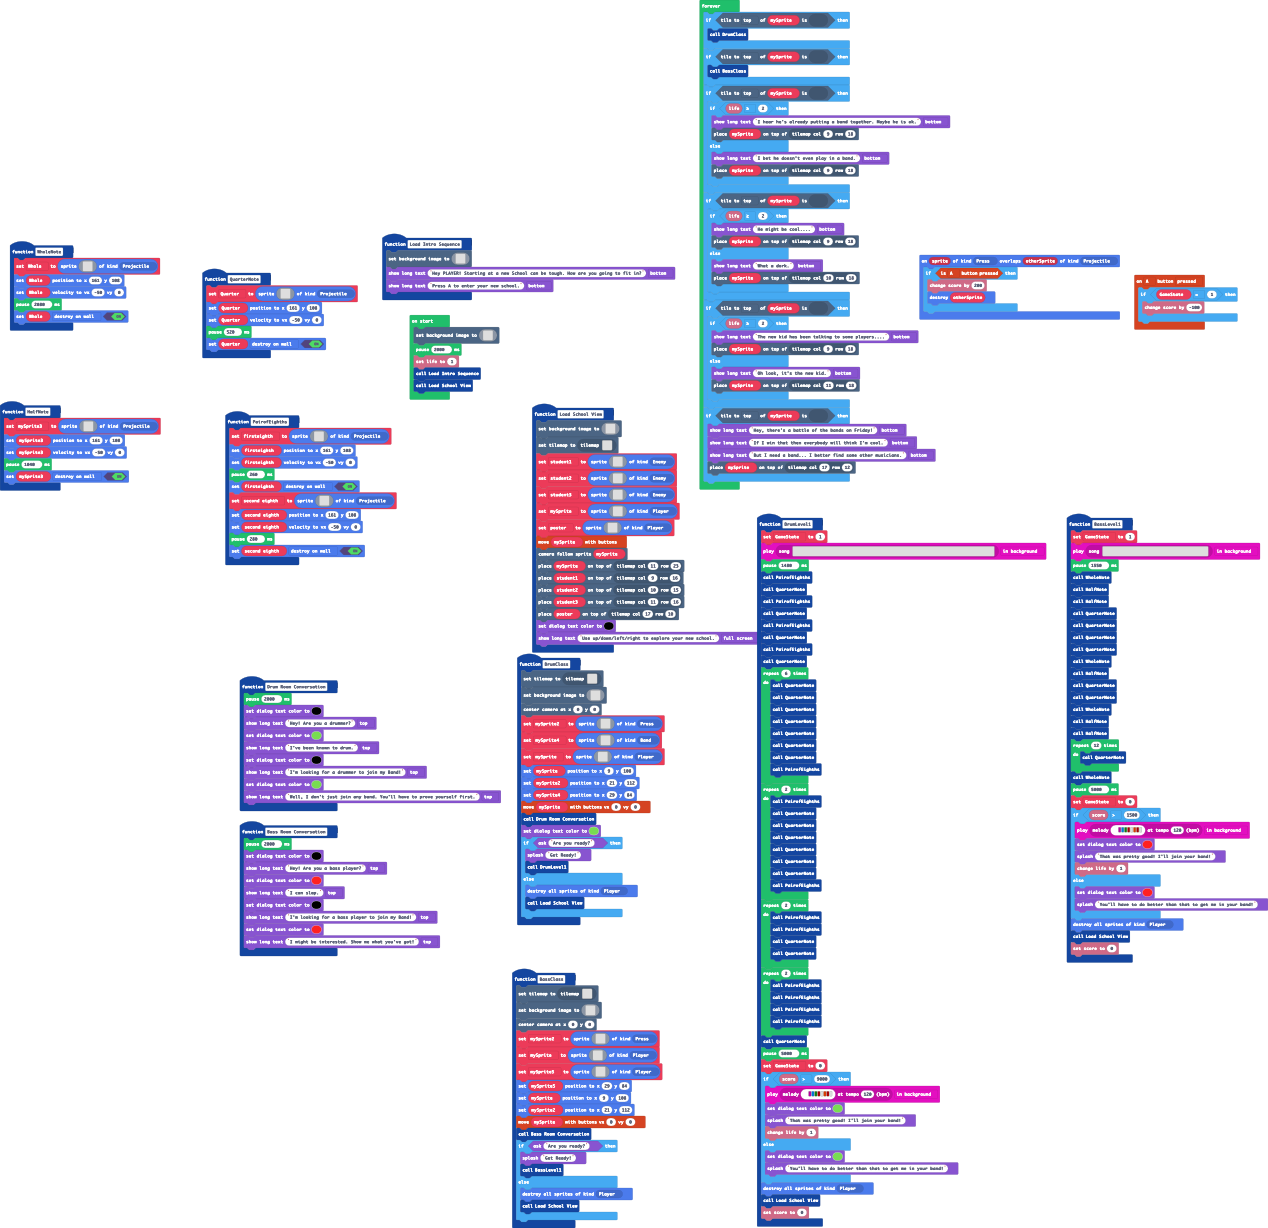
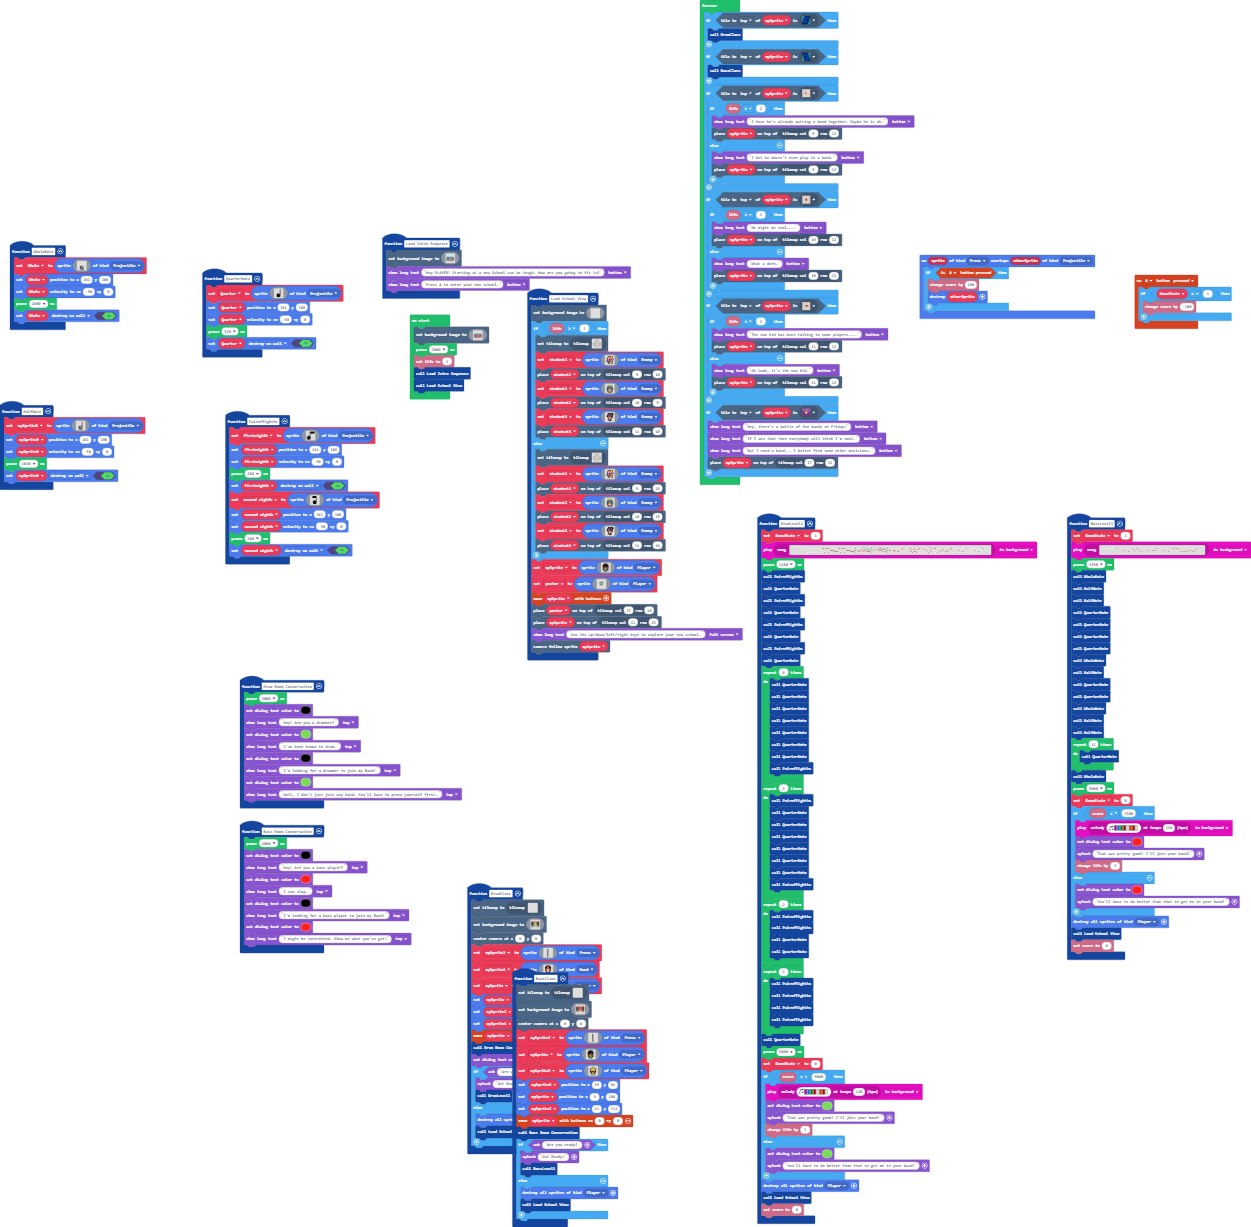
Update main.blocks, main.ts, tilemap.g.jres, tilemap.g.ts

diff --git a/tilemap.g.ts b/tilemap.g.ts
@@ -86,6 +86,166 @@ namespace myTiles {
 ........2......2........
 ........2......2........
 `, [myTiles.transparency16,sprites.dungeon.floorLight2,sprites.dungeon.greenOuterSouth0,sprites.dungeon.greenOuterWest1,sprites.dungeon.greenOuterEast0,sprites.dungeon.greenOuterNorth0,sprites.dungeon.greenOuterNorthWest,sprites.dungeon.greenInnerNorthWest,sprites.dungeon.greenInnerNorthEast,sprites.dungeon.greenInnerSouthEast,sprites.dungeon.greenInnerSouthWest,sprites.dungeon.greenOuterSouthEast,sprites.dungeon.greenOuterSouthWest,sprites.dungeon.greenOuterNorthEast,sprites.dungeon.greenOuterEast1,myTiles.tile2,myTiles.tile3,myTiles.tile4,myTiles.tile5,myTiles.tile6,myTiles.tile8], TileScale.Sixteen);
+            case "level4":
+            case "level4":return tiles.createTilemap(hex`1000100000000000000000000000000000000000000000000000000000000000000000000000000000000000000000000000000000000000000000000000000000000000000000000000000000000000000000000000000000000000000000000000000000000000000000000000000000000000000000000000000000000000000000000000000000000000000000000000000000000000000000000000000000000000000000000000000000000000000000000000000000000000000000000000000000000000000000000000000000000000000000000000000000000000000000000000000000000000000000000000000000000000000000000000000000000000`, img`
+. . . . . . . . . . . . . . . . 
+. . . . . . . . . . . . . . . . 
+. . . . . . . . . . . . . . . . 
+. . . . . . . . . . . . . . . . 
+. . . . . . . . . . . . . . . . 
+. . . . . . . . . . . . . . . . 
+. . . . . . . . . . . . . . . . 
+. . . . . . . . . . . . . . . . 
+. . . . . . . . . . . . . . . . 
+. . . . . . . . . . . . . . . . 
+. . . . . . . . . . . . . . . . 
+. . . . . . . . . . . . . . . . 
+. . . . . . . . . . . . . . . . 
+. . . . . . . . . . . . . . . . 
+. . . . . . . . . . . . . . . . 
+. . . . . . . . . . . . . . . . 
+`, [myTiles.transparency16], TileScale.Sixteen);
+            case "level5":
+            case "level5":return tiles.createTilemap(hex`1000100000000000000000000000000000000000000000000000000000000000000000000000000000000000000000000000000000000000000000000000000000000000000000000000000000000000000000000000000000000000000000000000000000000000000000000000000000000000000000000000000000000000000000000000000000000000000000000000000000000000000000000000000000000000000000000000000000000000000000000000000000000000000000000000000000000000000000000000000000000000000000000000000000000000000000000000000000000000000000000000000000000000000000000000000000000000`, img`
+. . . . . . . . . . . . . . . . 
+. . . . . . . . . . . . . . . . 
+. . . . . . . . . . . . . . . . 
+. . . . . . . . . . . . . . . . 
+. . . . . . . . . . . . . . . . 
+. . . . . . . . . . . . . . . . 
+. . . . . . . . . . . . . . . . 
+. . . . . . . . . . . . . . . . 
+. . . . . . . . . . . . . . . . 
+. . . . . . . . . . . . . . . . 
+. . . . . . . . . . . . . . . . 
+. . . . . . . . . . . . . . . . 
+. . . . . . . . . . . . . . . . 
+. . . . . . . . . . . . . . . . 
+. . . . . . . . . . . . . . . . 
+. . . . . . . . . . . . . . . . 
+`, [myTiles.transparency16], TileScale.Sixteen);
+            case "level6":
+            case "level6":return tiles.createTilemap(hex`1000100000000000000000000000000000000000000000000000000000000000000000000000000000000000000000000000000000000000000000000000000000000000000000000000000000000000000000000000000000000000000000000000000000000000000000000000000000000000000000000000000000000000000000000000000000000000000000000000000000000000000000000000000000000000000000000000000000000000000000000000000000000000000000000000000000000000000000000000000000000000000000000000000000000000000000000000000000000000000000000000000000000000000000000000000000000000`, img`
+. . . . . . . . . . . . . . . . 
+. . . . . . . . . . . . . . . . 
+. . . . . . . . . . . . . . . . 
+. . . . . . . . . . . . . . . . 
+. . . . . . . . . . . . . . . . 
+. . . . . . . . . . . . . . . . 
+. . . . . . . . . . . . . . . . 
+. . . . . . . . . . . . . . . . 
+. . . . . . . . . . . . . . . . 
+. . . . . . . . . . . . . . . . 
+. . . . . . . . . . . . . . . . 
+. . . . . . . . . . . . . . . . 
+. . . . . . . . . . . . . . . . 
+. . . . . . . . . . . . . . . . 
+. . . . . . . . . . . . . . . . 
+. . . . . . . . . . . . . . . . 
+`, [myTiles.transparency16], TileScale.Sixteen);
+            case "School View Tilemap2":
[1 lines of base64/hex data omitted]
+........22222222........
+........2......2........
+........2......2........
+........2......2........
+........2......2........
+........2......2........
+........2......2........
+........2......2........
+........2......2........
+..2222..2......2..222...
+2222.2222......2222.2222
+2......................2
+2......................2
+2......................2
+2......................2
+2......................2
+222222222......222222222
+........2......2........
+........2......2........
+........2......2........
+........2......2........
+........2......2........
+........2......2........
+........2......2........
+`, [myTiles.transparency16,sprites.dungeon.floorLight2,sprites.dungeon.greenOuterSouth0,sprites.dungeon.greenOuterWest1,sprites.dungeon.greenOuterEast0,sprites.dungeon.greenOuterNorth0,sprites.dungeon.greenOuterNorthWest,sprites.dungeon.greenInnerNorthWest,sprites.dungeon.greenInnerNorthEast,sprites.dungeon.greenInnerSouthEast,sprites.dungeon.greenInnerSouthWest,sprites.dungeon.greenOuterSouthEast,sprites.dungeon.greenOuterSouthWest,sprites.dungeon.greenOuterNorthEast,sprites.dungeon.greenOuterEast1,myTiles.tile2,myTiles.tile3,myTiles.tile4,myTiles.tile5,myTiles.tile6,myTiles.tile8], TileScale.Sixteen);
+            case "level7":
+            case "level7":return tiles.createTilemap(hex`1000100000000000000000000000000000000000000000000000000000000000000000000000000000000000000000000000000000000000000000000000000000000000000000000000000000000000000000000000000000000000000000000000000000000000000000000000000000000000000000000000000000000000000000000000000000000000000000000000000000000000000000000000000000000000000000000000000000000000000000000000000000000000000000000000000000000000000000000000000000000000000000000000000000000000000000000000000000000000000000000000000000000000000000000000000000000000`, img`
+. . . . . . . . . . . . . . . . 
+. . . . . . . . . . . . . . . . 
+. . . . . . . . . . . . . . . . 
+. . . . . . . . . . . . . . . . 
+. . . . . . . . . . . . . . . . 
+. . . . . . . . . . . . . . . . 
+. . . . . . . . . . . . . . . . 
+. . . . . . . . . . . . . . . . 
+. . . . . . . . . . . . . . . . 
+. . . . . . . . . . . . . . . . 
+. . . . . . . . . . . . . . . . 
+. . . . . . . . . . . . . . . . 
+. . . . . . . . . . . . . . . . 
+. . . . . . . . . . . . . . . . 
+. . . . . . . . . . . . . . . . 
+. . . . . . . . . . . . . . . . 
+`, [myTiles.transparency16], TileScale.Sixteen);
+            case "level8":
+            case "level8":return tiles.createTilemap(hex`1000100000000000000000000000000000000000000000000000000000000000000000000000000000000000000000000000000000000000000000000000000000000000000000000000000000000000000000000000000000000000000000000000000000000000000000000000000000000000000000000000000000000000000000000000000000000000000000000000000000000000000000000000000000000000000000000000000000000000000000000000000000000000000000000000000000000000000000000000000000000000000000000000000000000000000000000000000000000000000000000000000000000000000000000000000000000000`, img`
+. . . . . . . . . . . . . . . . 
+. . . . . . . . . . . . . . . . 
+. . . . . . . . . . . . . . . . 
+. . . . . . . . . . . . . . . . 
+. . . . . . . . . . . . . . . . 
+. . . . . . . . . . . . . . . . 
+. . . . . . . . . . . . . . . . 
+. . . . . . . . . . . . . . . . 
+. . . . . . . . . . . . . . . . 
+. . . . . . . . . . . . . . . . 
+. . . . . . . . . . . . . . . . 
+. . . . . . . . . . . . . . . . 
+. . . . . . . . . . . . . . . . 
+. . . . . . . . . . . . . . . . 
+. . . . . . . . . . . . . . . . 
+. . . . . . . . . . . . . . . . 
+`, [myTiles.transparency16], TileScale.Sixteen);
+            case "level9":
+            case "level9":return tiles.createTilemap(hex`1000100000000000000000000000000000000000000000000000000000000000000000000000000000000000000000000000000000000000000000000000000000000000000000000000000000000000000000000000000000000000000000000000000000000000000000000000000000000000000000000000000000000000000000000000000000000000000000000000000000000000000000000000000000000000000000000000000000000000000000000000000000000000000000000000000000000000000000000000000000000000000000000000000000000000000000000000000000000000000000000000000000000000000000000000000000000000`, img`
+. . . . . . . . . . . . . . . . 
+. . . . . . . . . . . . . . . . 
+. . . . . . . . . . . . . . . . 
+. . . . . . . . . . . . . . . . 
+. . . . . . . . . . . . . . . . 
+. . . . . . . . . . . . . . . . 
+. . . . . . . . . . . . . . . . 
+. . . . . . . . . . . . . . . . 
+. . . . . . . . . . . . . . . . 
+. . . . . . . . . . . . . . . . 
+. . . . . . . . . . . . . . . . 
+. . . . . . . . . . . . . . . . 
+. . . . . . . . . . . . . . . . 
+. . . . . . . . . . . . . . . . 
+. . . . . . . . . . . . . . . . 
+. . . . . . . . . . . . . . . . 
+`, [myTiles.transparency16], TileScale.Sixteen);
+            case "level10":
+            case "level10":return tiles.createTilemap(hex`1000100000000000000000000000000000000000000000000000000000000000000000000000000000000000000000000000000000000000000000000000000000000000000000000000000000000000000000000000000000000000000000000000000000000000000000000000000000000000000000000000000000000000000000000000000000000000000000000000000000000000000000000000000000000000000000000000000000000000000000000000000000000000000000000000000000000000000000000000000000000000000000000000000000000000000000000000000000000000000000000000000000000000000000000000000000000000`, img`
+. . . . . . . . . . . . . . . . 
+. . . . . . . . . . . . . . . . 
+. . . . . . . . . . . . . . . . 
+. . . . . . . . . . . . . . . . 
+. . . . . . . . . . . . . . . . 
+. . . . . . . . . . . . . . . . 
+. . . . . . . . . . . . . . . . 
+. . . . . . . . . . . . . . . . 
+. . . . . . . . . . . . . . . . 
+. . . . . . . . . . . . . . . . 
+. . . . . . . . . . . . . . . . 
+. . . . . . . . . . . . . . . . 
+. . . . . . . . . . . . . . . . 
+. . . . . . . . . . . . . . . . 
+. . . . . . . . . . . . . . . . 
+. . . . . . . . . . . . . . . . 
+`, [myTiles.transparency16], TileScale.Sixteen);
         }
         return null;
     })

diff --git a/main.ts b/main.ts
@@ -295,21 +295,30 @@ function Load_School_View () {
         ................................................................................................................................................................
         ................................................................................................................................................................
         `)
-    tiles.setCurrentTilemap(tilemap`School View Tilemap`)
-    student1 = sprites.create(assets.image`princess2Right1`, SpriteKind.Enemy)
-    student2 = sprites.create(assets.image`princessFront0`, SpriteKind.Enemy)
-    student3 = sprites.create(assets.image`villager1WalkLeft1`, SpriteKind.Enemy)
+    if (info.life() >= 2) {
+        tiles.setCurrentTilemap(tilemap`School View Tilemap2`)
+        student1 = sprites.create(assets.image`princess2Right1`, SpriteKind.Enemy)
+        tiles.placeOnTile(student1, tiles.getTileLocation(9, 10))
+        student2 = sprites.create(assets.image`princessFront0`, SpriteKind.Enemy)
+        tiles.placeOnTile(student2, tiles.getTileLocation(10, 9))
+        student3 = sprites.create(assets.image`villager1WalkLeft1`, SpriteKind.Enemy)
+        tiles.placeOnTile(student3, tiles.getTileLocation(11, 10))
+    } else {
+        tiles.setCurrentTilemap(tilemap`School View Tilemap`)
+        student1 = sprites.create(assets.image`princess2Right1`, SpriteKind.Enemy)
+        tiles.placeOnTile(student1, tiles.getTileLocation(9, 16))
+        student2 = sprites.create(assets.image`princessFront0`, SpriteKind.Enemy)
+        tiles.placeOnTile(student2, tiles.getTileLocation(10, 15))
+        student3 = sprites.create(assets.image`villager1WalkLeft1`, SpriteKind.Enemy)
+        tiles.placeOnTile(student3, tiles.getTileLocation(11, 16))
+    }
     mySprite = sprites.create(assets.image`Player`, SpriteKind.Player)
     poster = sprites.create(assets.image`smallBlue0`, SpriteKind.Player)
     controller.moveSprite(mySprite)
-    scene.cameraFollowSprite(mySprite)
-    tiles.placeOnTile(mySprite, tiles.getTileLocation(11, 23))
-    tiles.placeOnTile(student1, tiles.getTileLocation(9, 16))
-    tiles.placeOnTile(student2, tiles.getTileLocation(10, 15))
-    tiles.placeOnTile(student3, tiles.getTileLocation(11, 16))
     tiles.placeOnTile(poster, tiles.getTileLocation(17, 10))
-    game.setDialogTextColor(15)
-    game.showLongText("Use up/down/left/right to explore your new school.", DialogLayout.Full)
+    tiles.placeOnTile(mySprite, tiles.getTileLocation(11, 23))
+    game.showLongText("Use the up/down/left/right keys to explore your new school.", DialogLayout.Full)
+    scene.cameraFollowSprite(mySprite)
 }
 function PairofEighths () {
     firsteighth = sprites.create(assets.image`First EighthPic`, SpriteKind.Projectile)
@@ -380,28 +389,28 @@ forever(function () {
     if (mySprite.tileKindAt(TileDirection.Top, assets.tile`myTile2`)) {
         if (info.life() >= 2) {
             game.showLongText("I hear he's already putting a band together. Maybe he is ok.", DialogLayout.Bottom)
-            tiles.placeOnTile(mySprite, tiles.getTileLocation(9, 18))
+            tiles.placeOnTile(mySprite, tiles.getTileLocation(9, 12))
         } else {
             game.showLongText("I bet he doesn't even play in a band.", DialogLayout.Bottom)
-            tiles.placeOnTile(mySprite, tiles.getTileLocation(9, 18))
+            tiles.placeOnTile(mySprite, tiles.getTileLocation(9, 12))
         }
     }
     if (mySprite.tileKindAt(TileDirection.Top, assets.tile`myTile3`)) {
         if (info.life() >= 2) {
             game.showLongText("He might be cool....", DialogLayout.Bottom)
-            tiles.placeOnTile(mySprite, tiles.getTileLocation(9, 18))
+            tiles.placeOnTile(mySprite, tiles.getTileLocation(10, 12))
         } else {
             game.showLongText("What a dork.", DialogLayout.Bottom)
-            tiles.placeOnTile(mySprite, tiles.getTileLocation(10, 18))
+            tiles.placeOnTile(mySprite, tiles.getTileLocation(10, 12))
         }
     }
     if (mySprite.tileKindAt(TileDirection.Top, assets.tile`myTile4`)) {
         if (info.life() >= 2) {
             game.showLongText("The new kid has been talking to some players....", DialogLayout.Bottom)
-            tiles.placeOnTile(mySprite, tiles.getTileLocation(9, 18))
+            tiles.placeOnTile(mySprite, tiles.getTileLocation(11, 12))
         } else {
             game.showLongText("Oh look, it's the new kid.", DialogLayout.Bottom)
-            tiles.placeOnTile(mySprite, tiles.getTileLocation(11, 18))
+            tiles.placeOnTile(mySprite, tiles.getTileLocation(11, 12))
         }
     }
     if (mySprite.tileKindAt(TileDirection.Top, assets.tile`myTile6`)) {
